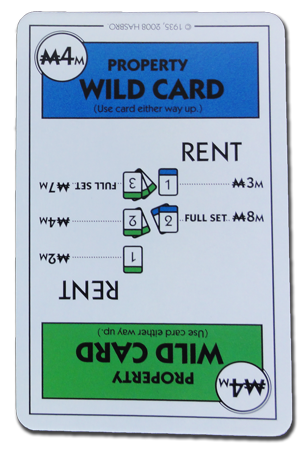
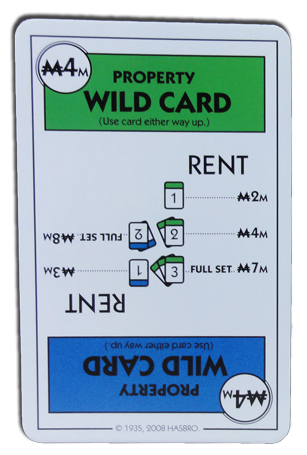
WIP wildcard property

diff --git a/universal/monopoly/cards.js b/universal/monopoly/cards.js
@@ -41,6 +41,7 @@ export const PROPERTY_LIGHT_BLUE_OR_BROWN = 'PROPERTY_LIGHT_BLUE_OR_BROWN'
 export const PROPERTY_PINK_OR_ORANGE = 'PROPERTY_PINK_OR_ORANGE'
 export const PROPERTY_GREEN_OR_BLACK = 'PROPERTY_GREEN_OR_BLACK'
 export const PROPERTY_GREEN_OR_BLUE = 'PROPERTY_GREEN_OR_BLUE'
+export const PROPERTY_BLUE_OR_GREEN = 'PROPERTY_BLUE_OR_GREEN'
 export const PROPERTY_LIGHT_BLUE_OR_BLACK = 'PROPERTY_LIGHT_BLUE_OR_BLACK'
 export const PROPERTY_LIGHT_GREEN_OR_BLACK = 'PROPERTY_LIGHT_GREEN_OR_BLACK'
 export const PROPERTY_YELLOW_OR_RED = 'PROPERTY_YELLOW_OR_RED'
@@ -228,7 +229,17 @@ export const CARDS: MapOfCards = setKey({
     value: 4,
     image: '/images/cards/property-green-or-blue.png',
     type: PROPERTY_WILDCARD_TYPE,
-    forCards: [PROPERTY_GREEN, PROPERTY_BLUE]
+    treatAs: PROPERTY_GREEN,
+    oposite: PROPERTY_BLUE_OR_GREEN
+  },
+
+  [PROPERTY_BLUE_OR_GREEN]: {
+    count: 0,
+    value: 4,
+    image: '/images/cards/property-blue-or-green.png',
+    type: PROPERTY_WILDCARD_TYPE,
+    treatAs: PROPERTY_BLUE,
+    oposite: PROPERTY_GREEN_OR_BLUE
   },
 
   [PROPERTY_LIGHT_BLUE_OR_BROWN]: {

diff --git a/interfaces/Card.js b/interfaces/Card.js
@@ -4,5 +4,7 @@ type Card = {
   image: string,
   type: string,
   key: string,
-  forCards?: string[]
+  forCards?: string[],
+  treatAs?: string,
+  oposite?: string
 }
